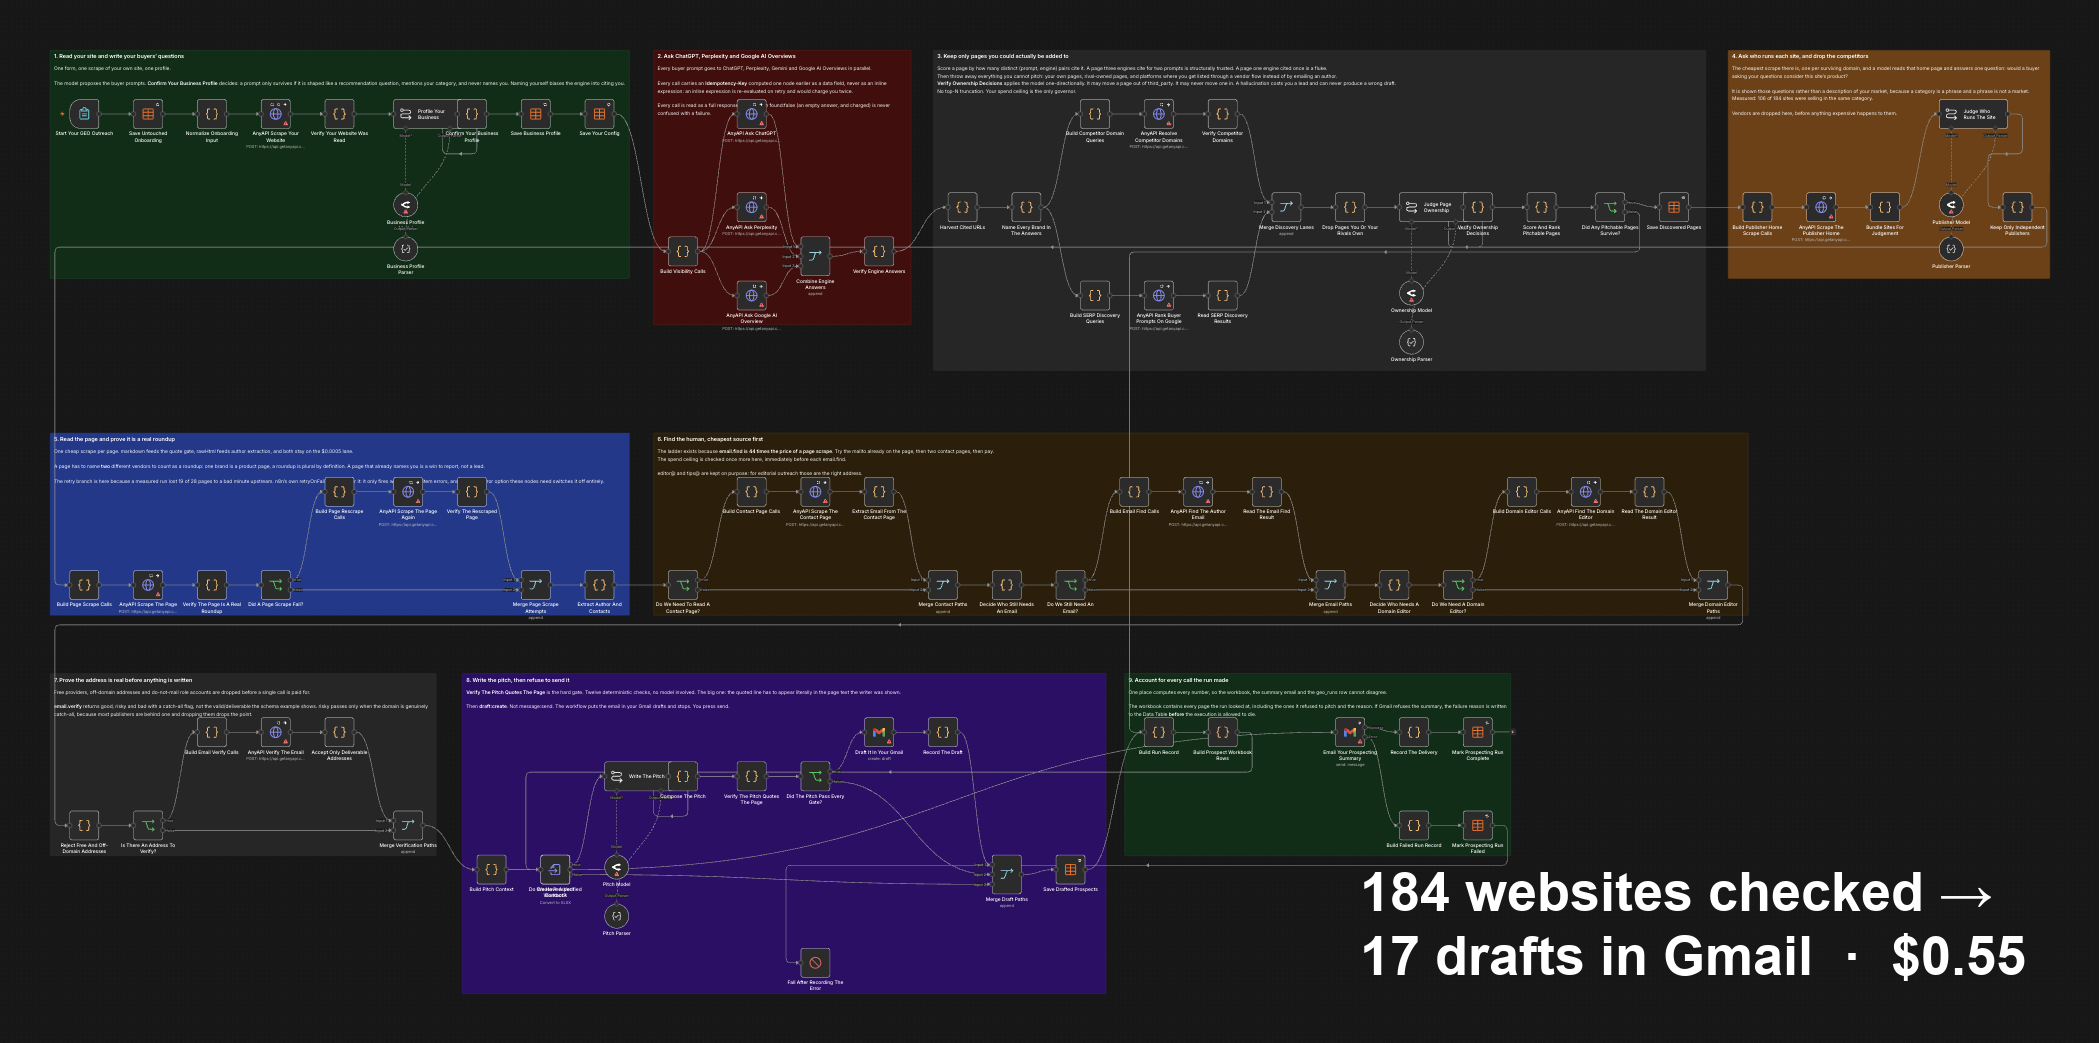
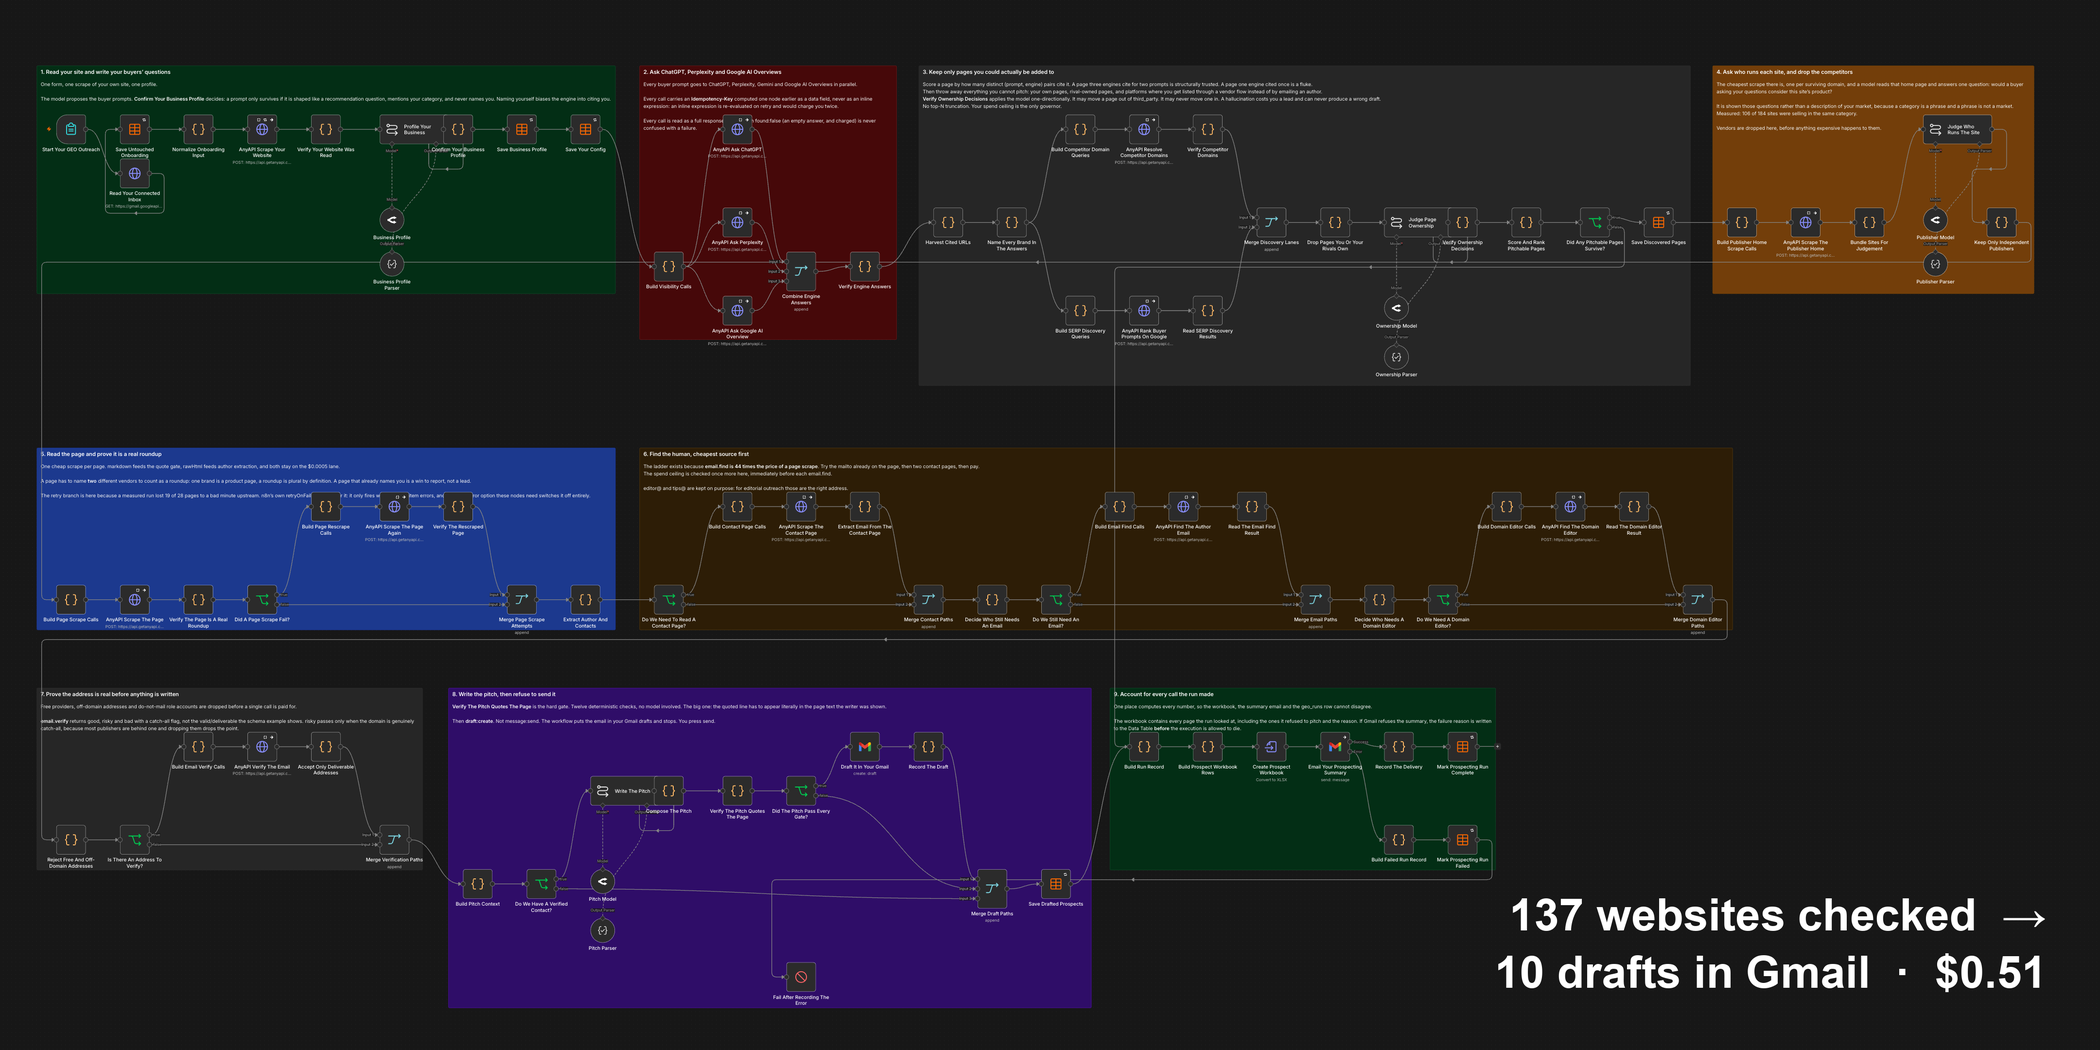
Unstack two nodes, reshoot the canvas, and publish the real runs
'Create Prospect Workbook' was pushed at column 63 instead of 74 and landed
exactly on top of 'Do We Have A Verified Contact?'. The workflow ran fine
either way, which is why nothing here noticed - the only reader of the layout
is a person opening the canvas, and the published screenshot rendered the
pair as one unreadable smear. verify.mjs now refuses two nodes on the same
coordinates, negative-tested.

The screenshot is retaken off the shipped JSON at 104 nodes, with the n8n
chrome and its floating tool rail hidden, and captioned from execution 13
rather than from the harness: 137 websites checked, 10 drafts in Gmail,
$0.51. The old caption said 17 drafts in Gmail and no Gmail draft had ever
been created when it was written.

PROOF.md carries the three real n8n runs as a table, and drops the limit
saying no draft was ever created, because thirty-two of them now have been.
The run records are a sample file rather than eighteen new entries on the
explained-constants list, so every figure in that table is checked against
the record it came out of.

diff --git a/PROOF.md b/PROOF.md
@@ -234,14 +234,31 @@ the fit clause - because a run of identical bodies is what a spam filter cluster
 seeded from the page rather than random, so re-running a prospect produces the same email rather
 than a second, differently-worded one arriving beside the first.
 
+## Three runs in real n8n
+
+The harness proves the numbers. These prove the workflow, because they are the shipped JSON executing
+inside `n8n 2.35.7` with real credentials, and every draft in the last column exists in a Gmail
+account. Nothing was sent in any of them.
+
+| Execution | Buyer questions | Citations | Pitchable | Sites judged | Drafts in Gmail | Cost | Runtime |
+| --- | ---: | ---: | ---: | ---: | ---: | ---: | ---: |
+| 6 | 17 | 414 | 299 | 128 | 11 | $0.43886 | 13m52s |
+| 12 | 16 | 358 | 265 | 113 | 8 | $0.50639 | 11m22s |
+| 13 | 17 | 410 | 276 | 116 | 10 | $0.50943 | 10m32s |
+
+The spread between them is the engines, not the workflow: the same site and the same form produced
+between 358 and 414 cited URLs across three runs an hour apart. Execution 13 is the one the
+screenshot is captioned from, and the one whose gate refused a draft - a pitch naming a vendor the
+engines had never named.
+
 ## The honest limits of this proof
 
 - The engines are not stable between runs. Runs against the same site produced between 108 and 503
   cited URLs and between 0 and 18 passing drafts. Treat any single run as one sample.
 - The number of buyer questions is not fixed. The same site produced between 15 and 17 across
   consecutive runs, and every downstream number moves with it.
-- No Gmail draft was created by this run, so "the draft lands in your Gmail" is verified against the
-  Gmail node's documented behaviour and its source code. There is no screenshot of my inbox here.
+- The funnel table above is the harness run, because that is the run with a saved artifact for every
+  page it looked at. It is not the only evidence any more: see the three real runs below.
 - A verified address means the mailbox accepts mail. It does not mean the person still works there.
 - The publisher filter is a judgement, and judgements are wrong sometimes. It is the reason the
   workbook records a verdict for every domain: you can see what it decided and why before you send.
